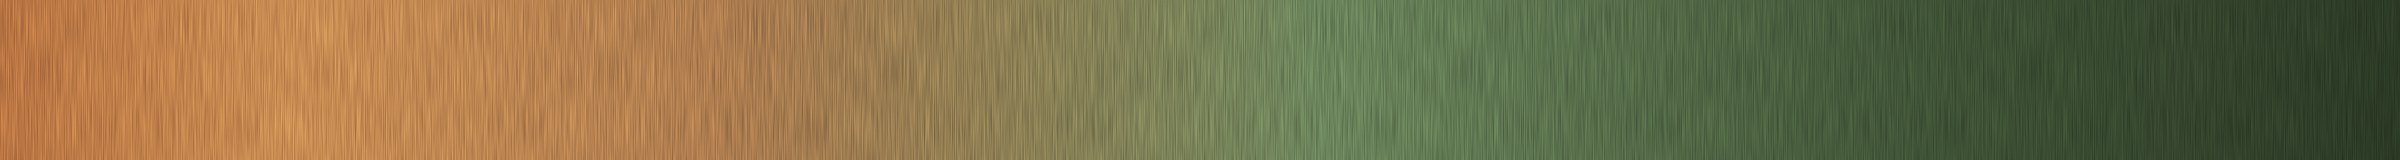
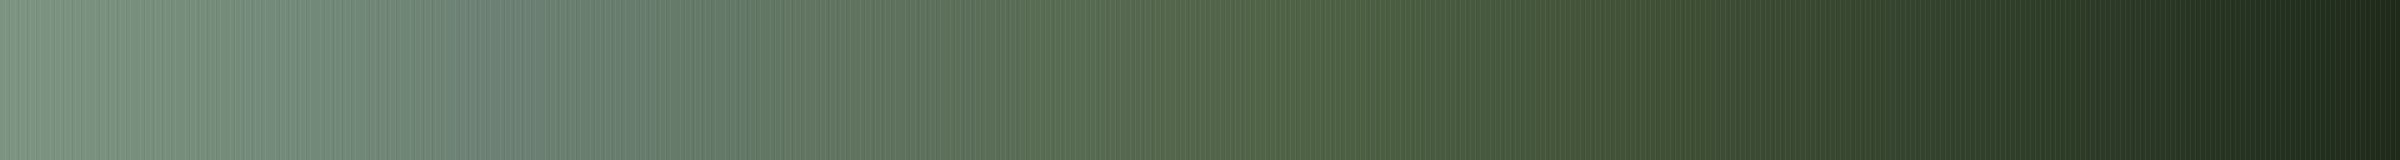
ヘッダー/フッターのグラデーションを緑の濃淡に統一、見出しフォントをNoto Serif JPに変更
- ヘッダー画像(header-gradient.jpg)・CTA帯・フッターの茶→緑グラデーションを、
  ブランド画像から抽出した緑のみの濃淡グラデーションに変更
- --font-heading を Shippori Antique B1 から Noto Serif JP に変更(全ページの
  見出し・ロゴ文言に反映)。全6ページのGoogleフォント読み込みを更新

Claude-Session: https://claude.ai/code/session_01UucQ2dbiKg4ANu3pUW8ES8

diff --git a/roots-fitness/style.css b/roots-fitness/style.css
@@ -12,7 +12,7 @@
   --color-text-soft: #5C5346;
   --color-white: #FFFFFF;
 
-  --font-heading: "Shippori Antique B1", "Shippori Mincho", serif;
+  --font-heading: "Noto Serif JP", "Shippori Mincho", serif;
   --font-body: "Zen Kaku Gothic New", sans-serif;
   --font-signature: "Yuji Syuku", "Shippori Antique B1", serif;
 
@@ -2318,7 +2318,7 @@ a.news-card:hover {
   background:
     repeating-linear-gradient(90deg, rgba(255, 255, 255, 0.05) 0px, rgba(255, 255, 255, 0.05) 1px, transparent 1px, transparent 5px),
     repeating-linear-gradient(90deg, rgba(0, 0, 0, 0.05) 0px, rgba(0, 0, 0, 0.05) 1px, transparent 1px, transparent 9px),
-    linear-gradient(90deg, #8F5531 0%, #A9673D 12%, #7a5a3a 32%, #4E6144 55%, #2E3D28 80%, #1f2a1b 100%);
+    linear-gradient(90deg, #7C9481 0%, #6B8072 22%, #4E6144 55%, #2E3D28 85%, #1f2a1b 100%);
   color: var(--color-white);
   padding: 40px 0;
   overflow: hidden;
@@ -2381,7 +2381,7 @@ a.news-card:hover {
   background:
     repeating-linear-gradient(90deg, rgba(255, 255, 255, 0.05) 0px, rgba(255, 255, 255, 0.05) 1px, transparent 1px, transparent 5px),
     repeating-linear-gradient(90deg, rgba(0, 0, 0, 0.05) 0px, rgba(0, 0, 0, 0.05) 1px, transparent 1px, transparent 9px),
-    linear-gradient(90deg, #8F5531 0%, #A9673D 12%, #7a5a3a 32%, #4E6144 55%, #2E3D28 80%, #1f2a1b 100%);
+    linear-gradient(90deg, #7C9481 0%, #6B8072 22%, #4E6144 55%, #2E3D28 85%, #1f2a1b 100%);
   color: rgba(255, 255, 255, 0.85);
   padding: 64px 0 32px;
   font-size: 0.85rem;

diff --git a/roots-fitness/news.html b/roots-fitness/news.html
@@ -10,8 +10,8 @@
 <link rel="apple-touch-icon" href="images/logo.png">
 <link rel="preconnect" href="https://fonts.googleapis.com">
 <link rel="preconnect" href="https://fonts.gstatic.com" crossorigin>
-<link rel="stylesheet" href="https://fonts.googleapis.com/css2?family=Shippori+Antique+B1&family=Shippori+Mincho:wght@400&family=Zen+Kaku+Gothic+New:wght@300;400;500;700&family=Yuji+Syuku&display=swap" media="print" onload="this.media='all'">
-<noscript><link rel="stylesheet" href="https://fonts.googleapis.com/css2?family=Shippori+Antique+B1&family=Shippori+Mincho:wght@400&family=Zen+Kaku+Gothic+New:wght@300;400;500;700&family=Yuji+Syuku&display=swap"></noscript>
+<link rel="stylesheet" href="https://fonts.googleapis.com/css2?family=Noto+Serif+JP:wght@400;500;600;700&family=Shippori+Mincho:wght@400&family=Zen+Kaku+Gothic+New:wght@300;400;500;700&family=Yuji+Syuku&display=swap" media="print" onload="this.media='all'">
+<noscript><link rel="stylesheet" href="https://fonts.googleapis.com/css2?family=Noto+Serif+JP:wght@400;500;600;700&family=Shippori+Mincho:wght@400&family=Zen+Kaku+Gothic+New:wght@300;400;500;700&family=Yuji+Syuku&display=swap"></noscript>
 <link rel="stylesheet" href="style.css?v=1">
 </head>
 <body data-stores-json="data/stores.json">

diff --git a/roots-fitness/online-training.html b/roots-fitness/online-training.html
@@ -10,8 +10,8 @@
 <link rel="apple-touch-icon" href="images/logo.png">
 <link rel="preconnect" href="https://fonts.googleapis.com">
 <link rel="preconnect" href="https://fonts.gstatic.com" crossorigin>
-<link rel="stylesheet" href="https://fonts.googleapis.com/css2?family=Shippori+Antique+B1&family=Shippori+Mincho:wght@400&family=Zen+Kaku+Gothic+New:wght@300;400;500;700&family=Yuji+Syuku&display=swap" media="print" onload="this.media='all'">
-<noscript><link rel="stylesheet" href="https://fonts.googleapis.com/css2?family=Shippori+Antique+B1&family=Shippori+Mincho:wght@400&family=Zen+Kaku+Gothic+New:wght@300;400;500;700&family=Yuji+Syuku&display=swap"></noscript>
+<link rel="stylesheet" href="https://fonts.googleapis.com/css2?family=Noto+Serif+JP:wght@400;500;600;700&family=Shippori+Mincho:wght@400&family=Zen+Kaku+Gothic+New:wght@300;400;500;700&family=Yuji+Syuku&display=swap" media="print" onload="this.media='all'">
+<noscript><link rel="stylesheet" href="https://fonts.googleapis.com/css2?family=Noto+Serif+JP:wght@400;500;600;700&family=Shippori+Mincho:wght@400&family=Zen+Kaku+Gothic+New:wght@300;400;500;700&family=Yuji+Syuku&display=swap"></noscript>
 <link rel="stylesheet" href="style.css?v=1">
 </head>
 <body data-stores-json="data/stores.json">

diff --git a/roots-fitness/recruit.html b/roots-fitness/recruit.html
@@ -10,8 +10,8 @@
 <link rel="apple-touch-icon" href="images/logo.png">
 <link rel="preconnect" href="https://fonts.googleapis.com">
 <link rel="preconnect" href="https://fonts.gstatic.com" crossorigin>
-<link rel="stylesheet" href="https://fonts.googleapis.com/css2?family=Shippori+Antique+B1&family=Shippori+Mincho:wght@400&family=Zen+Kaku+Gothic+New:wght@300;400;500;700&family=Yuji+Syuku&display=swap" media="print" onload="this.media='all'">
-<noscript><link rel="stylesheet" href="https://fonts.googleapis.com/css2?family=Shippori+Antique+B1&family=Shippori+Mincho:wght@400&family=Zen+Kaku+Gothic+New:wght@300;400;500;700&family=Yuji+Syuku&display=swap"></noscript>
+<link rel="stylesheet" href="https://fonts.googleapis.com/css2?family=Noto+Serif+JP:wght@400;500;600;700&family=Shippori+Mincho:wght@400&family=Zen+Kaku+Gothic+New:wght@300;400;500;700&family=Yuji+Syuku&display=swap" media="print" onload="this.media='all'">
+<noscript><link rel="stylesheet" href="https://fonts.googleapis.com/css2?family=Noto+Serif+JP:wght@400;500;600;700&family=Shippori+Mincho:wght@400&family=Zen+Kaku+Gothic+New:wght@300;400;500;700&family=Yuji+Syuku&display=swap"></noscript>
 <link rel="stylesheet" href="style.css?v=1">
 </head>
 <body data-stores-json="data/stores.json">

diff --git a/roots-fitness/voice.html b/roots-fitness/voice.html
@@ -10,8 +10,8 @@
 <link rel="apple-touch-icon" href="images/logo.png">
 <link rel="preconnect" href="https://fonts.googleapis.com">
 <link rel="preconnect" href="https://fonts.gstatic.com" crossorigin>
-<link rel="stylesheet" href="https://fonts.googleapis.com/css2?family=Shippori+Antique+B1&family=Shippori+Mincho:wght@400&family=Zen+Kaku+Gothic+New:wght@300;400;500;700&family=Yuji+Syuku&display=swap" media="print" onload="this.media='all'">
-<noscript><link rel="stylesheet" href="https://fonts.googleapis.com/css2?family=Shippori+Antique+B1&family=Shippori+Mincho:wght@400&family=Zen+Kaku+Gothic+New:wght@300;400;500;700&family=Yuji+Syuku&display=swap"></noscript>
+<link rel="stylesheet" href="https://fonts.googleapis.com/css2?family=Noto+Serif+JP:wght@400;500;600;700&family=Shippori+Mincho:wght@400&family=Zen+Kaku+Gothic+New:wght@300;400;500;700&family=Yuji+Syuku&display=swap" media="print" onload="this.media='all'">
+<noscript><link rel="stylesheet" href="https://fonts.googleapis.com/css2?family=Noto+Serif+JP:wght@400;500;600;700&family=Shippori+Mincho:wght@400&family=Zen+Kaku+Gothic+New:wght@300;400;500;700&family=Yuji+Syuku&display=swap"></noscript>
 <link rel="stylesheet" href="style.css?v=1">
 </head>
 <body data-stores-json="data/stores.json">

diff --git a/roots-fitness/supporter.html b/roots-fitness/supporter.html
@@ -9,8 +9,8 @@
 <link rel="apple-touch-icon" href="images/logo.png">
 <link rel="preconnect" href="https://fonts.googleapis.com">
 <link rel="preconnect" href="https://fonts.gstatic.com" crossorigin>
-<link rel="stylesheet" href="https://fonts.googleapis.com/css2?family=Shippori+Antique+B1&family=Shippori+Mincho:wght@400&family=Zen+Kaku+Gothic+New:wght@300;400;500;700&family=Yuji+Syuku&display=swap" media="print" onload="this.media='all'">
-<noscript><link rel="stylesheet" href="https://fonts.googleapis.com/css2?family=Shippori+Antique+B1&family=Shippori+Mincho:wght@400&family=Zen+Kaku+Gothic+New:wght@300;400;500;700&family=Yuji+Syuku&display=swap"></noscript>
+<link rel="stylesheet" href="https://fonts.googleapis.com/css2?family=Noto+Serif+JP:wght@400;500;600;700&family=Shippori+Mincho:wght@400&family=Zen+Kaku+Gothic+New:wght@300;400;500;700&family=Yuji+Syuku&display=swap" media="print" onload="this.media='all'">
+<noscript><link rel="stylesheet" href="https://fonts.googleapis.com/css2?family=Noto+Serif+JP:wght@400;500;600;700&family=Shippori+Mincho:wght@400&family=Zen+Kaku+Gothic+New:wght@300;400;500;700&family=Yuji+Syuku&display=swap"></noscript>
 <link rel="stylesheet" href="style.css?v=1">
 </head>
 <body data-stores-json="data/stores.json">

diff --git a/roots-fitness/index.html b/roots-fitness/index.html
@@ -81,8 +81,8 @@
 
 <link rel="preconnect" href="https://fonts.googleapis.com">
 <link rel="preconnect" href="https://fonts.gstatic.com" crossorigin>
-<link rel="stylesheet" href="https://fonts.googleapis.com/css2?family=Shippori+Antique+B1&family=Shippori+Mincho:wght@400&family=Zen+Kaku+Gothic+New:wght@300;400;500;700&family=Yuji+Syuku&display=swap" media="print" onload="this.media='all'">
-<noscript><link rel="stylesheet" href="https://fonts.googleapis.com/css2?family=Shippori+Antique+B1&family=Shippori+Mincho:wght@400&family=Zen+Kaku+Gothic+New:wght@300;400;500;700&family=Yuji+Syuku&display=swap"></noscript>
+<link rel="stylesheet" href="https://fonts.googleapis.com/css2?family=Noto+Serif+JP:wght@400;500;600;700&family=Shippori+Mincho:wght@400&family=Zen+Kaku+Gothic+New:wght@300;400;500;700&family=Yuji+Syuku&display=swap" media="print" onload="this.media='all'">
+<noscript><link rel="stylesheet" href="https://fonts.googleapis.com/css2?family=Noto+Serif+JP:wght@400;500;600;700&family=Shippori+Mincho:wght@400&family=Zen+Kaku+Gothic+New:wght@300;400;500;700&family=Yuji+Syuku&display=swap"></noscript>
 <link rel="stylesheet" href="style.css?v=1">
 <link rel="preload" as="image" href="images/daikanyama-exterior.jpg" fetchpriority="high">
 </head>
